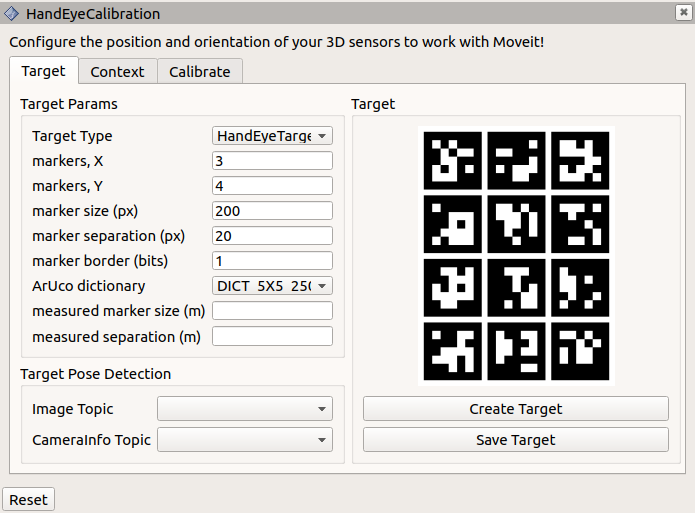
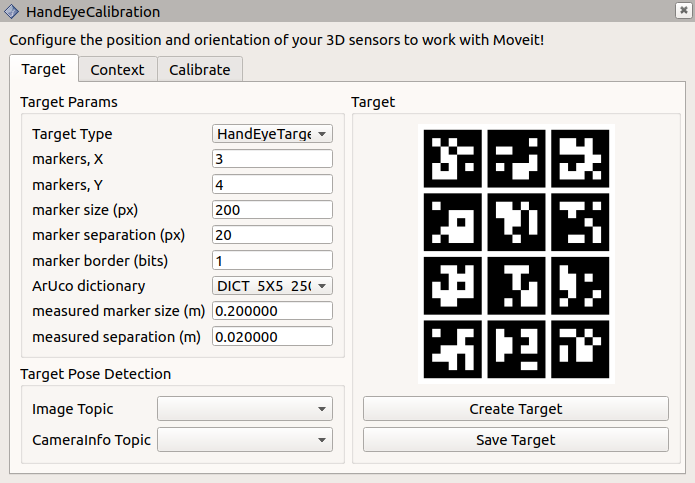
updated with new interface, other edits

Changed region(s): [[0.0, 0.0, 1.0, 1.0], [0.0302, 0.8385, 0.2115, 0.8696]]

diff --git a/doc/hand_eye_calibration/hand_eye_calibration_tutorial.rst b/doc/hand_eye_calibration/hand_eye_calibration_tutorial.rst
@@ -5,19 +5,19 @@ interface for conducting a hand-eye camera calibration. Calibrations can be perf
 robot base frame (eye-to-hand) and for cameras mounted to the end effector (eye-in-hand). This tutorial presents the
 eye-in-hand case.
 
-.. image:: hand_eye_calibration_demo.png
+.. image:: hand_eye_calibration_demo.jpg
 
 Getting Started
 ---------------
 While it is possible to go through most of this tutorial using just a simulation, to actually complete a calibration you
 will need a robotic arm and a camera.
 
-If you haven't already done so, make sure you've completed the steps in `Getting Started
+If you haven't already done so, be sure to complete the steps in `Getting Started
 <../getting_started/getting_started.html>`_. Also, set your arm up to work with MoveIt (as described in the `Setup
 Assistant Tutorial <../setup_assistant/setup_assistant.html>`_).
 
-This tutorial also requires a camera.  Be sure your camera node is publishing a ``sensor_msgs/CameraInfo`` topic with good
-intrinsic calibration parameters and an accurate coordinate frame. (Conduct an intrinsic camera calibration by using the
+This tutorial also requires a camera, publishing images and a ``sensor_msgs/CameraInfo`` topic with good intrinsic
+calibration parameters and an accurate coordinate frame. (Conduct an intrinsic camera calibration by using the
 `camera_calibration <http://wiki.ros.org/camera_calibration>`_ package, if necessary.)
 
 Clone and Build the MoveIt Calibration Repo
@@ -43,9 +43,7 @@ Then, select the "HandEyeCalibration" panel type:
 
 .. image:: add_handeye_panel.png
 
-This will add a mostly-blank panel.
-
-.. image:: empty_handeye_panel.png
+The panel will be added with the "Target" tab active.
 
 Create and Print a Target
 -------------------------
@@ -55,9 +53,7 @@ can be estimated. When conducting a hand-eye calibration, we do not need to know
 as the target is stationary in the robot's base frame, the hand-eye calibration can be estimated from a sequence of 5 or
 more poses.
 
-In the "Target Params" section of the "Target" tab, select the "Target Type" drop-down and click "HandEyeTarget/Aruco".
-(Although this option is already selected, the parameters for an ArUco target are not loaded until you click it.) Enter
-the following parameters:
+In the "Target Params" section of the "Target" tab, we will use the default target parameters:
 
 - **markers, X**: 3
 - **markers, Y**: 4
@@ -66,7 +62,7 @@ the following parameters:
 - **marker border (bits)**: 1
 - **ArUco dictionary**: DICT_5X5_250
 
-Then press the "Create Target" button to create the target image:
+Press the "Create Target" button to create the target image:
 
 .. image:: aruco_target_handeye_panel.png
 
@@ -115,14 +111,13 @@ calculated.
 
 The "Calibrate" tab provides the tools to collect the dataset and calculate and export the calibration. At this point,
 it is also helpful to add an image panel to the RViz display to see the target detection in the camera view, which is
-published on ``/handeye_calibration/target_detection``, and to add the TF display and show the target frame, camera
-optical frame, and end-effector frame.
+published on ``/handeye_calibration/target_detection``.
 
 .. image:: calibrate_tab.png
 
 On the "Calibrate" tab, you can select which calibration solver to use in the "AX=XB Solver" drop-down. The Daniilidis
 solver (from the paper referenced, above) is the default and is a good choice in most situations. The "Planning Group"
-is the joint group used for auto calibration, so should be set to the appropriate group for the arm (in the
+is the joint group that will be recorded, so should be set to the appropriate group for the arm (in the
 ``panda_moveit_config`` package, the ``panda_arm`` group should be used).
 
 When the target is visible in the arm camera, and the axis is rendered on the target in the target detection image, you
@@ -130,16 +125,18 @@ are ready to take your first calibration sample. Click the "Take sample" button 
 a new sample will be added to the "Pose samples" list on the left side of the panel. If you expand a sample, you will
 see it contains two transforms, base-to-end-effector, and camera-to-target.
 
-Next, you can move the arm to a new pose using the "MotionPlanning" panel, and click "Take Sample" again. Alternatively,
-you can let the hand-eye calibration plugin plan a new pose by clicking the "Plan" button in the "Auto Calibration"
-section. After planning, click "Execute", and the robot will move to the new pose and automatically capture a new
-sample. If you are planning poses manually, be sure to include some rotation between each pair of poses, and don't
-always rotate around the same axis--at least two rotation axes are needed to unique solve for the calibration (see the
-Daniilidis paper, linked above, for the explanation why).
+Next, you can move the arm to a new pose using the "MotionPlanning" panel, and click "Take sample" again. Be sure to
+include some rotation between each pair of poses, and don't always rotate around the same axis--at least two rotation
+axes are needed to uniquely solve for the calibration (see the Daniilidis paper, linked above, for the explanation why).
+
+As you take manual samples, the robot joint states are recorded, so that the same poses can be used again to
+recalibrate in the future. The number of recorded states is shown to the right of the progress bar at the bottom of the
+panel, and the states can be saved to a file using the "Save joint states" button in the "Settings" section.
 
 Calculate a Calibration
 -----------------------
 Once you have collected five samples, a calibration will be performed automatically, and updated each time a new sample
-is added. The position and orientation will be displayed on the "Context" tab, as mentioned above, and the published TF
-will be updated as well. Click "Save camera pose" to export the calibration result. This will create a launch file with
-a static transform publisher containing the calibrated camera transform.
+is added. The calibration will improve significantly with a few more samples, and will typically plateau after about 12
+or 15 samples. The position and orientation will be displayed on the "Context" tab, as mentioned above, and the
+published TF will be updated as well. Click "Save camera pose" to export the calibration result. This will create a
+launch file with a static transform publisher containing the calibrated camera transform.
